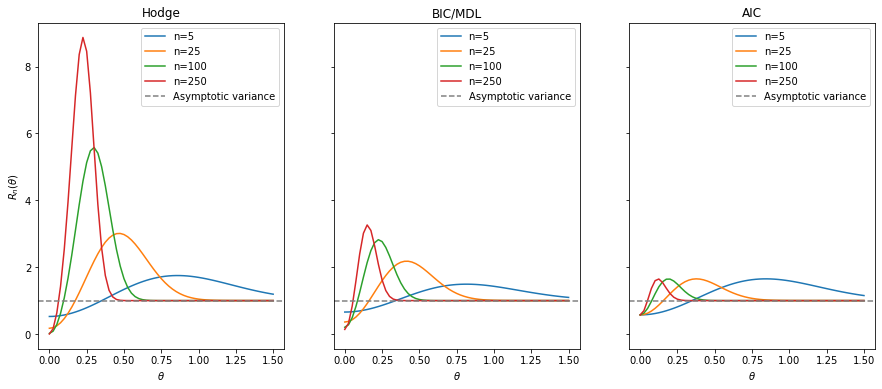
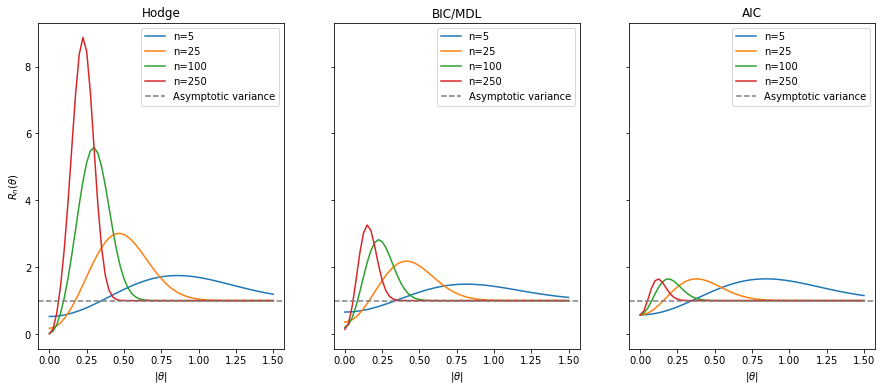
typos

diff --git a/_posts/2021-02-28-hodges_model_selection.md b/_posts/2021-02-28-hodges_model_selection.md
@@ -10,7 +10,7 @@ tags:
   - MDL
 ---
 
-# Model selection and Hodges Problem
+# Model selection
 
 The following theory and problems are adapted from "Theory of Point Estimation" (Lehmann and Casella, 1998) and "Model Selection and the Principle of Minimum Description Length" (Hansen and Yu, 2001).
 
@@ -25,25 +25,25 @@ $$
     \bar{X} & \text{if } |\bar{X}| \geq n^{-1/4}\\
     0 & \text{if } |\bar{X}| < n^{-1/4}
 \end{cases}
-$$
+$$,
 
-and thus chose $M_0$ if and only if $|\bar{X}| < n^{1/4}$. Notably, the risk $R_n(\theta)$ of this estimator is less than 1 for $\theta$ close to 0 (dependent on $n$) and thus is below the asymptotic variance and Cramer-Rao lower bound making it a superefficient estimator in certain cases.
+and thus chose $M_0$ if and only if $|\bar{X}| < n^{-1/4}$. Notably, the risk $R_n(\theta)$ of this estimator is less than 1 for $\theta$ close to 0 (dependent on $n$) and thus is below the asymptotic variance and Cramer-Rao lower bound making it a superefficient estimator in certain cases.
 
 Alternative, more conventional model selection methods include the Bayesian Information Criterion (BIC), Akaike Information Criterion (AIC), and Minimum Description Length (MDL).
+
+## Model Selection
 
 ### MDL
 MDL specifies the complexity of a model in terms of the information theoretic length of a bit string needed to be sent from a sender to a receiver (assuming some common knowlege shared between both parties). From Hansen and Yu (2001), we consider a two-stage coding in which we first quantify the cost $L(\hat{\theta})$ of encoding a parameter and then quantify the cost $L_M(X^n)$ of encoding the data given our model. The cost depends on our level of precision and so the finite parameter space for a given number is discreteized with precision $1 / \sqrt{n}$, reflecting the standard parametric rate of convergence (Hansen and Yu, 2001). We denote the likelihood function of our data given a parameter $\theta$ as $\mathcal{L}_{\theta}$ and our maximum likelihood estimate $\hat{\theta}_n = \bar{X}$.
 
-$$
-\begin{align}
+\begin{align*}
 MDL_{M_0}(X^n) &= L(0) + L_{M_0}(X^n) \\
 &= 0 + -\log \mathcal{L}_{0}(X^n) \\
 &= \frac{1}{2} \sum_{i=1}^n X_i^2 + \frac{n}{2}\log(2 \pi) \\
 MDL_{M_1}(X^n) &= L(\bar{X}) + L_{M_1}(X^n) \\
 &= -\log(1/\sqrt{n}) + -\log \mathcal{L}_{\bar{X}}(X^n) \\
-&= \frac{1}{2}\log(n) + \frac{1}{2} \sum_{i=1}^n (X_i - \bar{X})^2 + \frac{n}{2}\log(2 \pi) \\
-\end{align}
-$$
+&= \frac{1}{2}\log(n) + \frac{1}{2} \sum_{i=1}^n (X_i - \bar{X})^2 + \frac{n}{2}\log(2 \pi)
+\end{align*}
 
 Thus, we choose $M_0$ iff $MDL_{M_0} < MDL_{M_1}$ which is true, after cancelling terms, when
 $$|\bar{X}| < (\frac{1}{n}\log n)^{1/2}$$.
@@ -53,14 +53,13 @@ BIC is defined as $BIC_M(X^n) = -2\log \mathcal{L}_{\hat{\theta}}(X^n) + k\log n
 
 ### AIC
 AIC is defined as $AIC_M(^n) = -2\log \mathcal{L}_{\hat{\theta}}(X^n) + 2k$. So, in this problem
-$$
-\begin{align}
+
+\begin{align*}
 AIC_{M_0}(X^n) &= -2\log \mathcal{L}_{0}(X^n) + 2k \\
 &= \sum_{i=1}^n X_i^2 + n\log(2 \pi) + 0\\
 AIC_{M_1}(X^n) &= -2\log \mathcal{L}_{\bar{X}}(X^n) + 2k \\
-&= \sum_{i=1}^n (X_i - \bar{X})^2 + n\log(2 \pi) + 2 \\
-\end{align}
-$$
+&= \sum_{i=1}^n (X_i - \bar{X})^2 + n\log(2 \pi) + 2
+\end{align*}
 
 Thus, we choose $M_0$ iff $AIC_{M_0} < AIC_{M_1}$ which is true, after cancelling terms, when
 $$|\bar{X}| < (2/n)^{1/2}$$.
@@ -128,7 +127,7 @@ for n, ax in zip(n_range, axes):
         ax.plot(theta_range, risk, label=f'{name}')
 
     ax.axhline(1, c='grey', ls='--', label='Asymptotic variance')
-    ax.set_xlabel(r'$\theta$')
+    ax.set_xlabel(r'$|\theta|$')
     ax.set_xticks(np.linspace(0, 1.5, 7))
     ax.legend()
     ax.set_title(f'n={n}')
@@ -163,7 +162,7 @@ for i, (name, model) in enumerate(zip(model_names, models)):
     for n, risk in zip(n_range, risks):
         ax.plot(theta_range, risk, label=f'n={n}')
     ax.axhline(1, c='grey', ls='--', label='Asymptotic variance')
-    ax.set_xlabel(r'$\theta$')
+    ax.set_xlabel(r'$|\theta|$')
     ax.set_xticks(np.linspace(0, 1.5, 7))
     ax.legend()
     ax.set_title(name)
